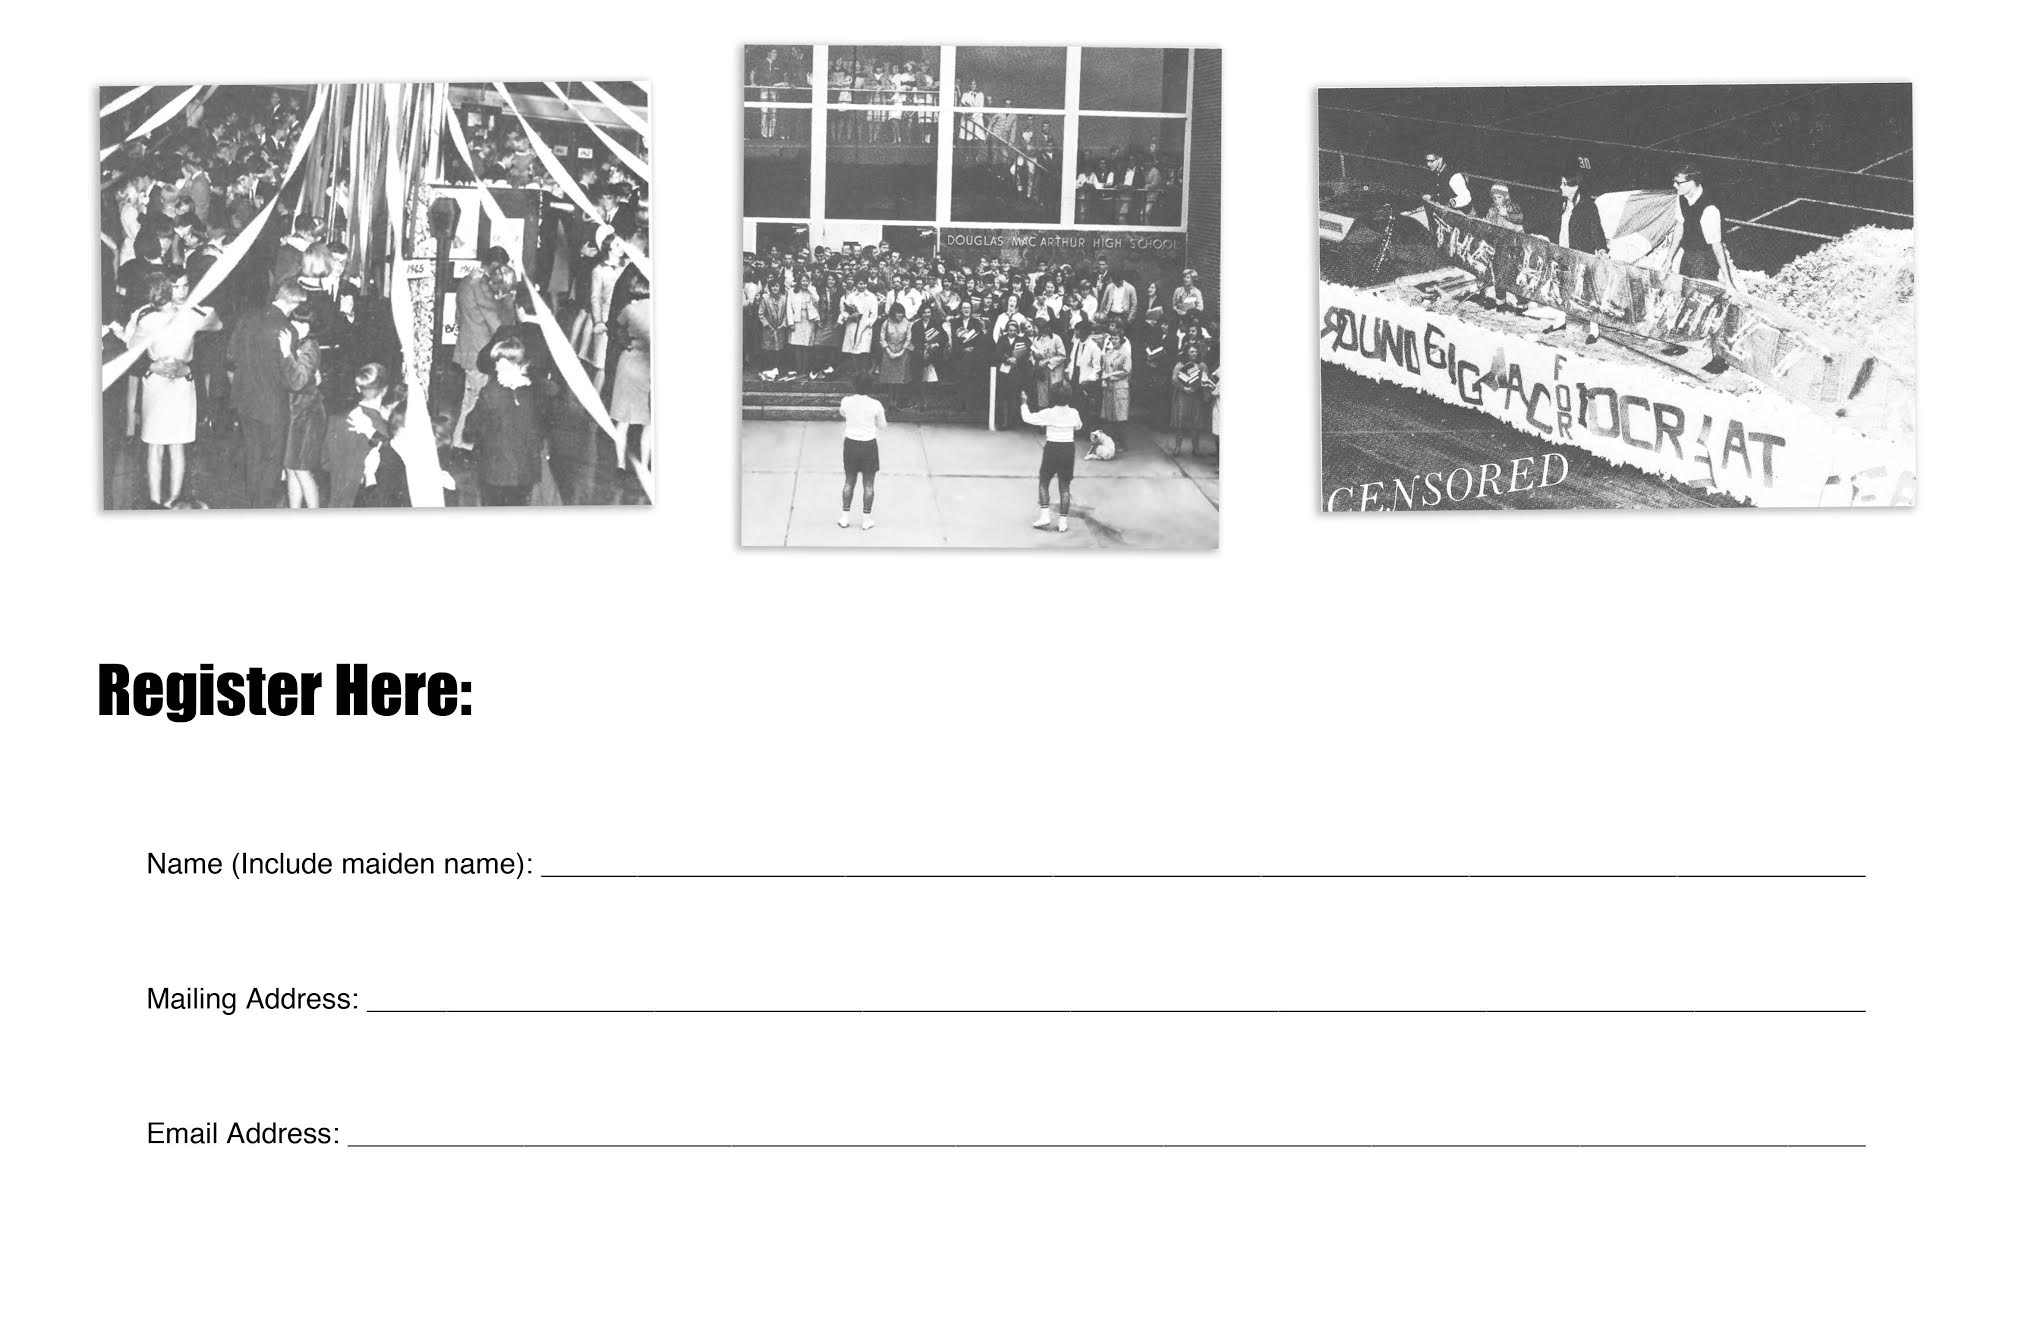
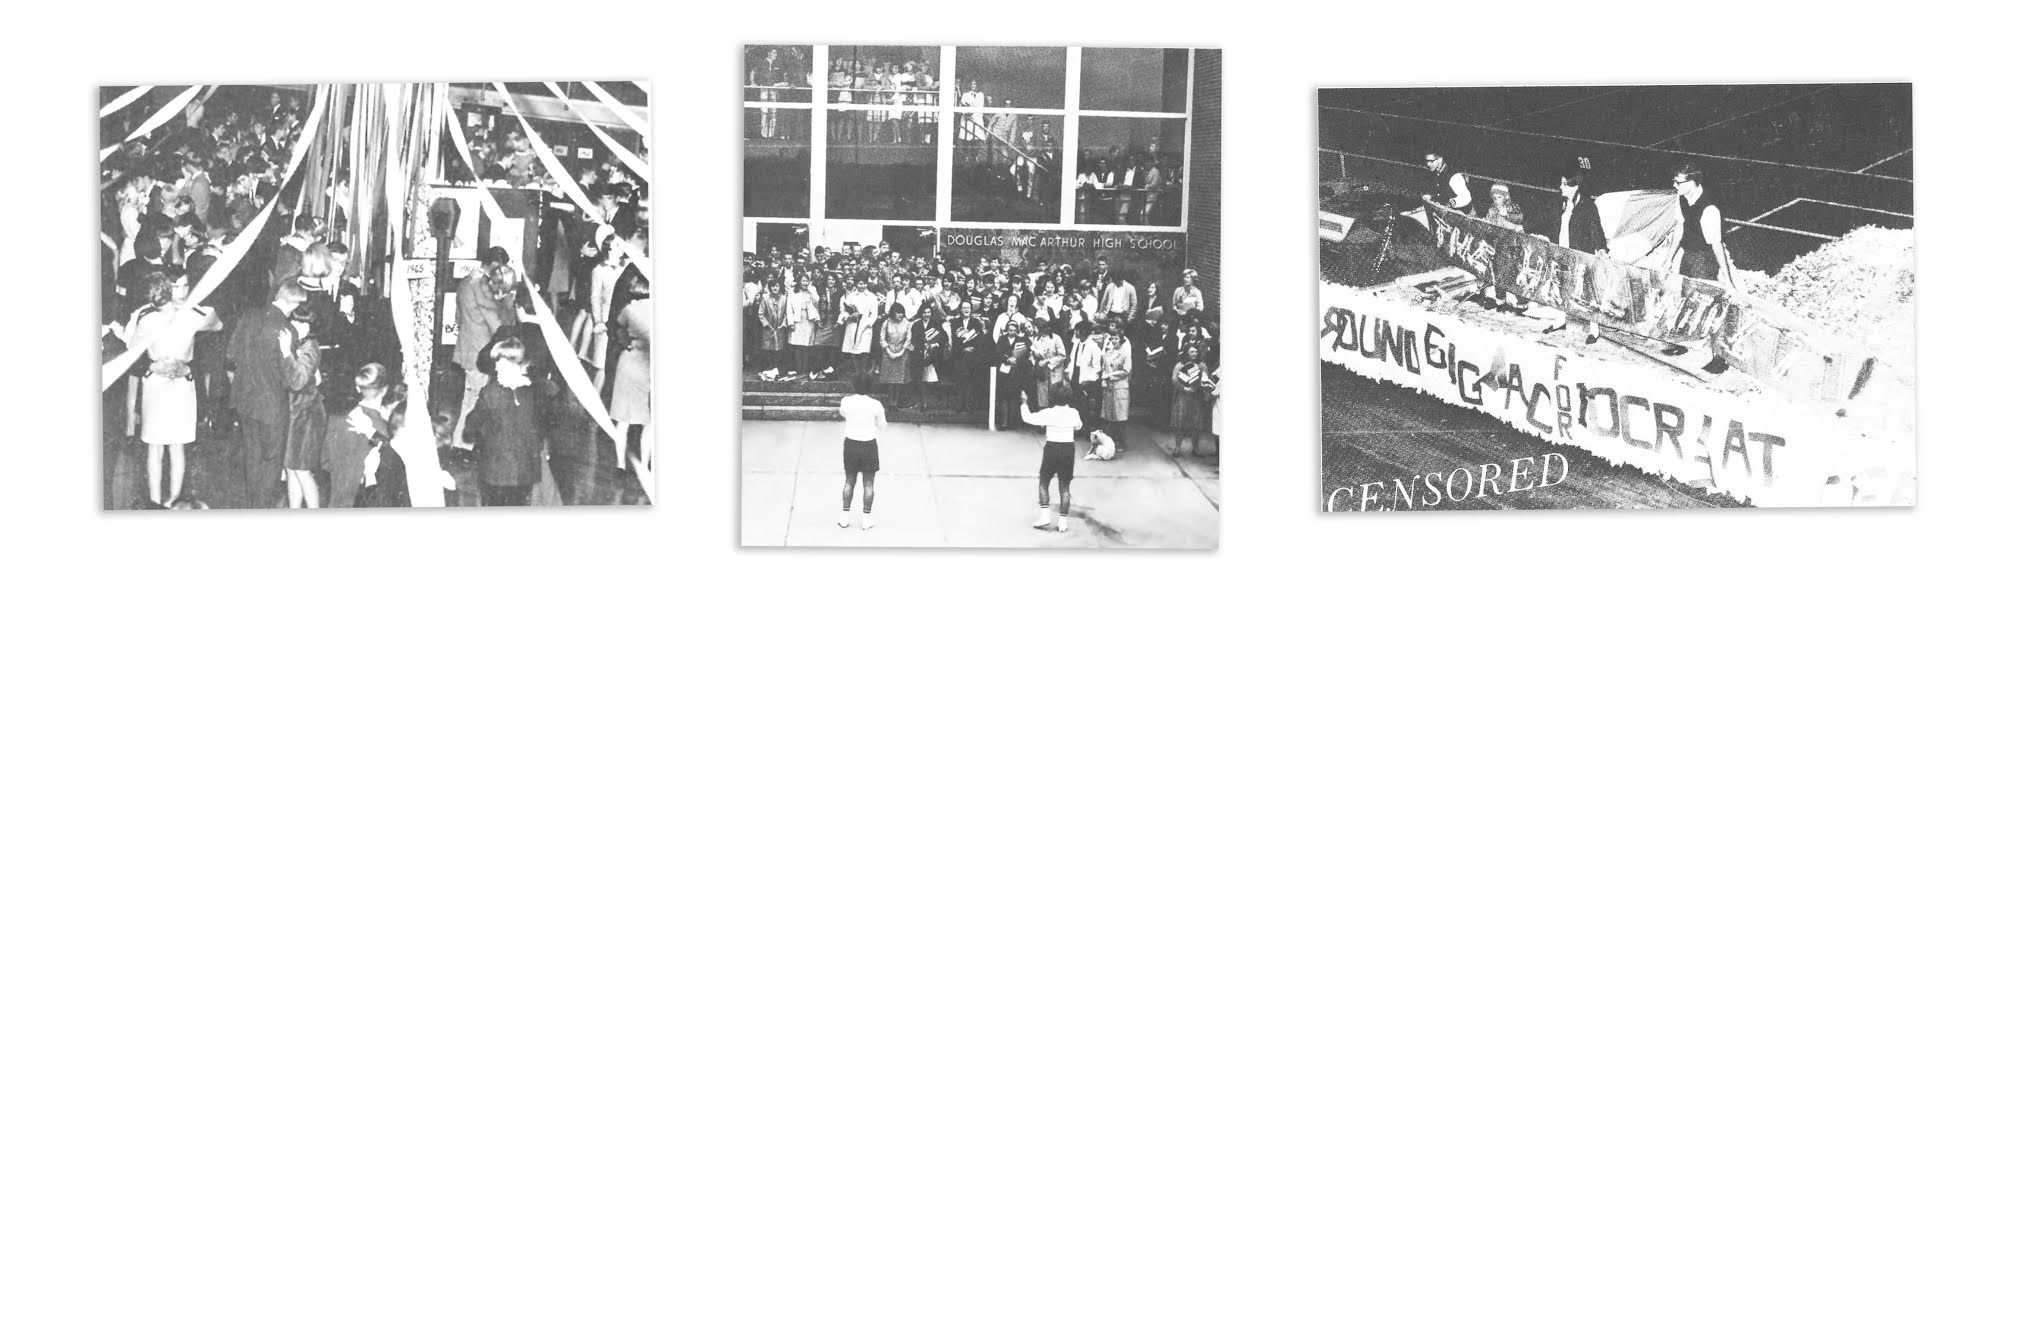
Modify font and drop form from image

diff --git a/stylesheets/stylesheet.css b/stylesheets/stylesheet.css
@@ -1,6 +1,7 @@
 html, body {
   margin: 0;
   padding: 0;
+  font-family: helvetica;
 }
 #container {
   position: relative;
@@ -18,6 +19,7 @@ html, body {
   top: 73.5%;
 }
 h1 {
+  font-size: 50px;
   margin-left: auto;
   margin-right: auto;
   margin-bottom: 50px;
